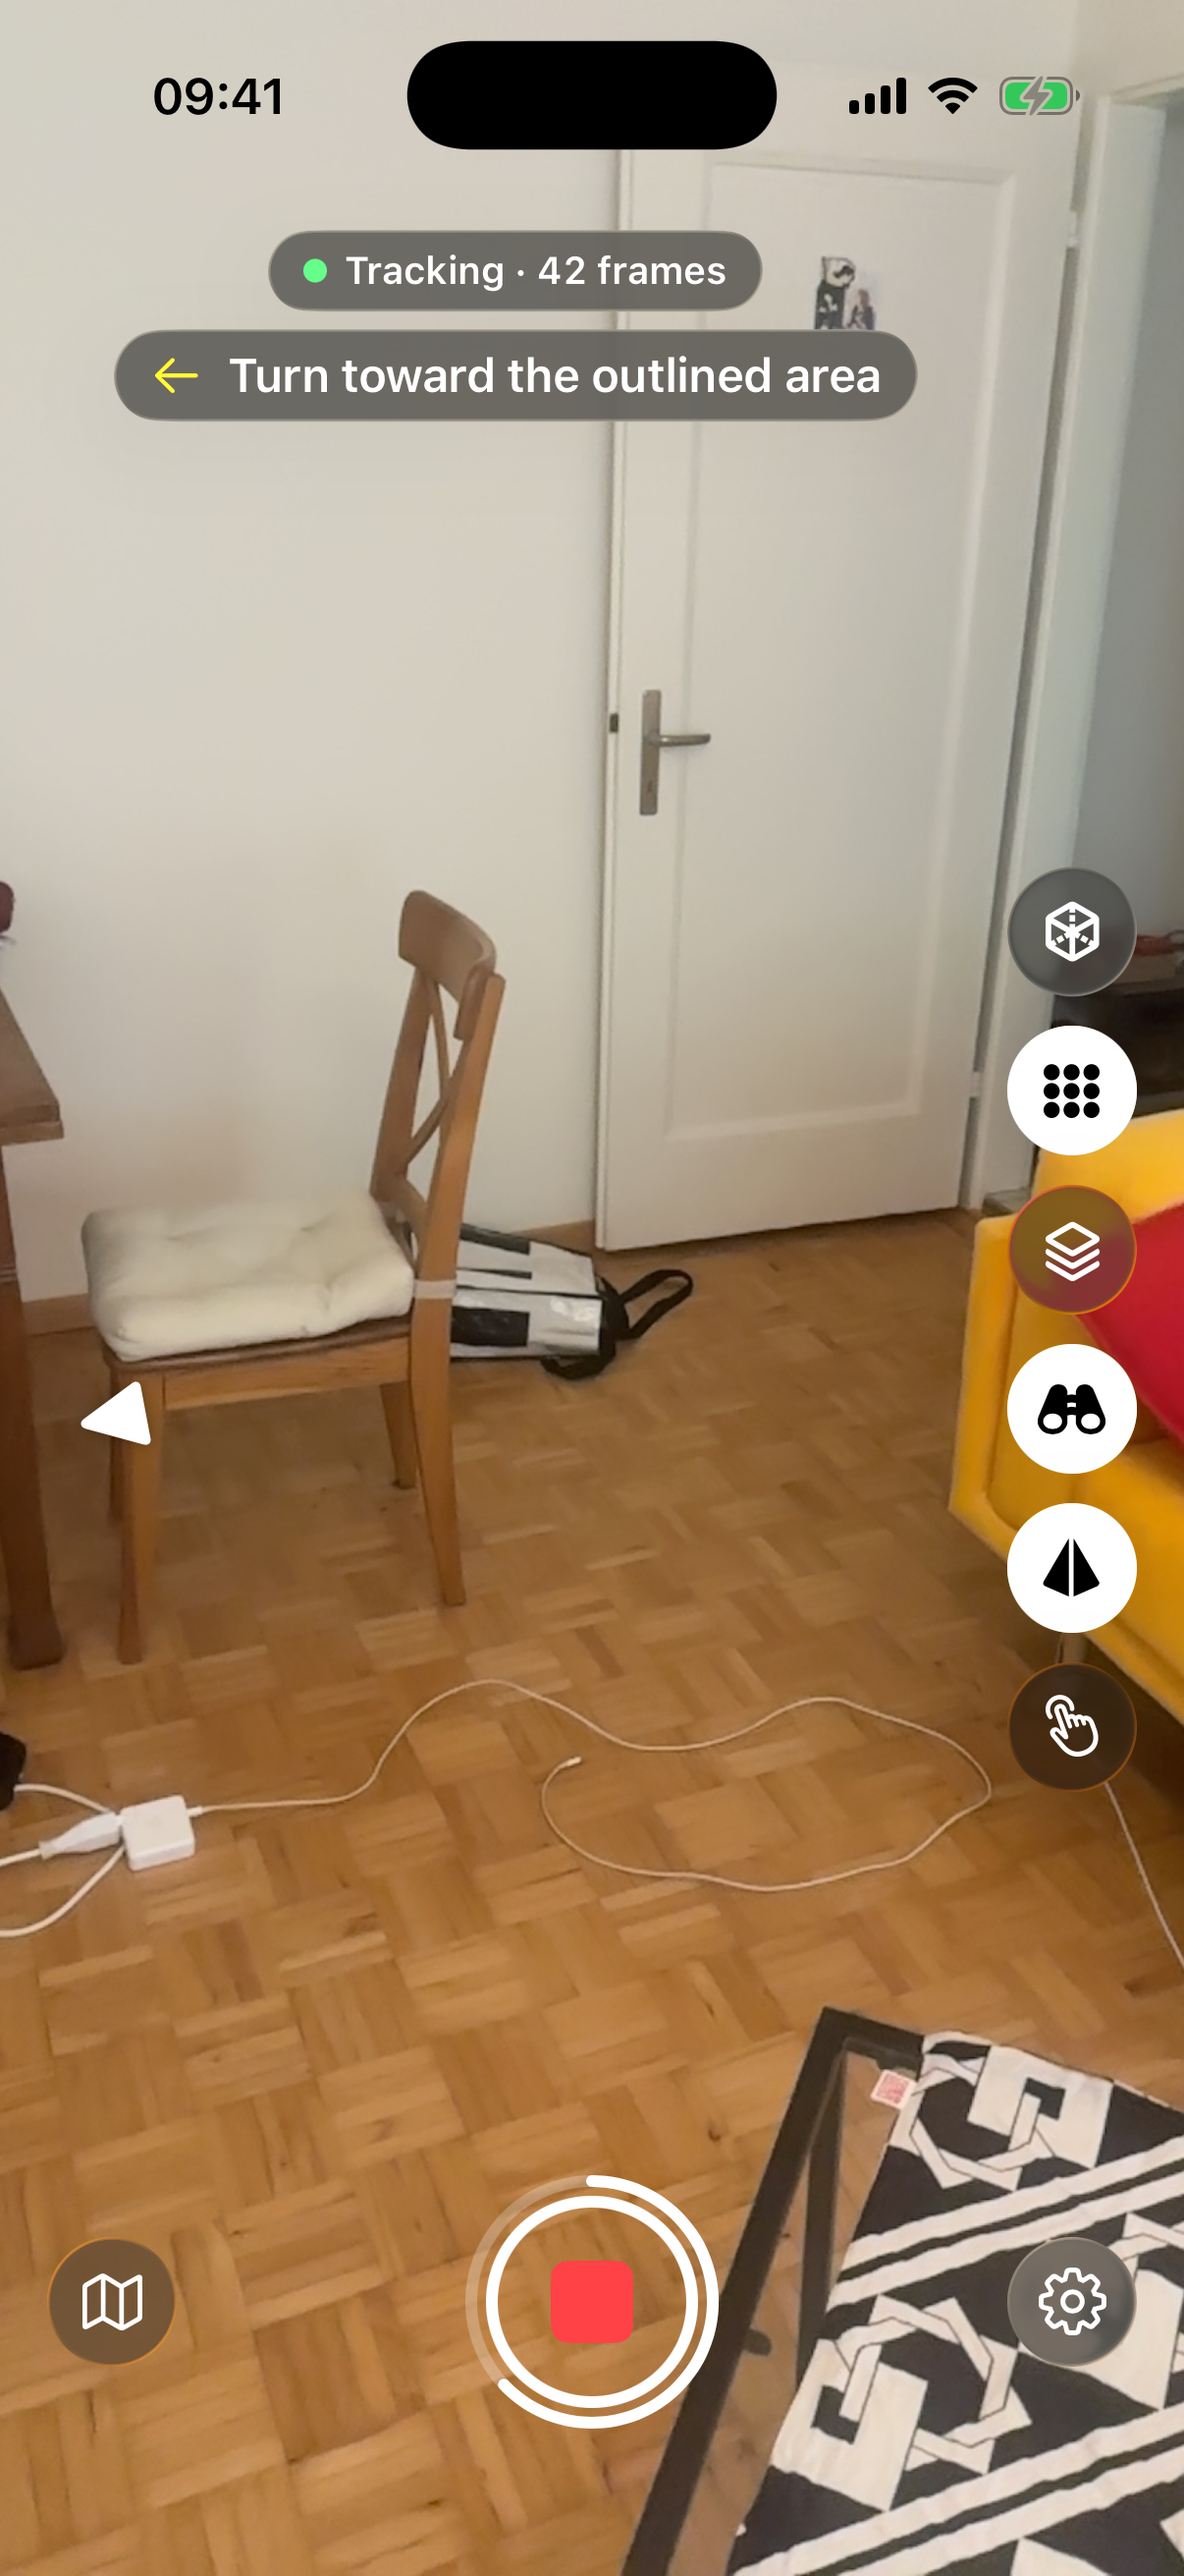
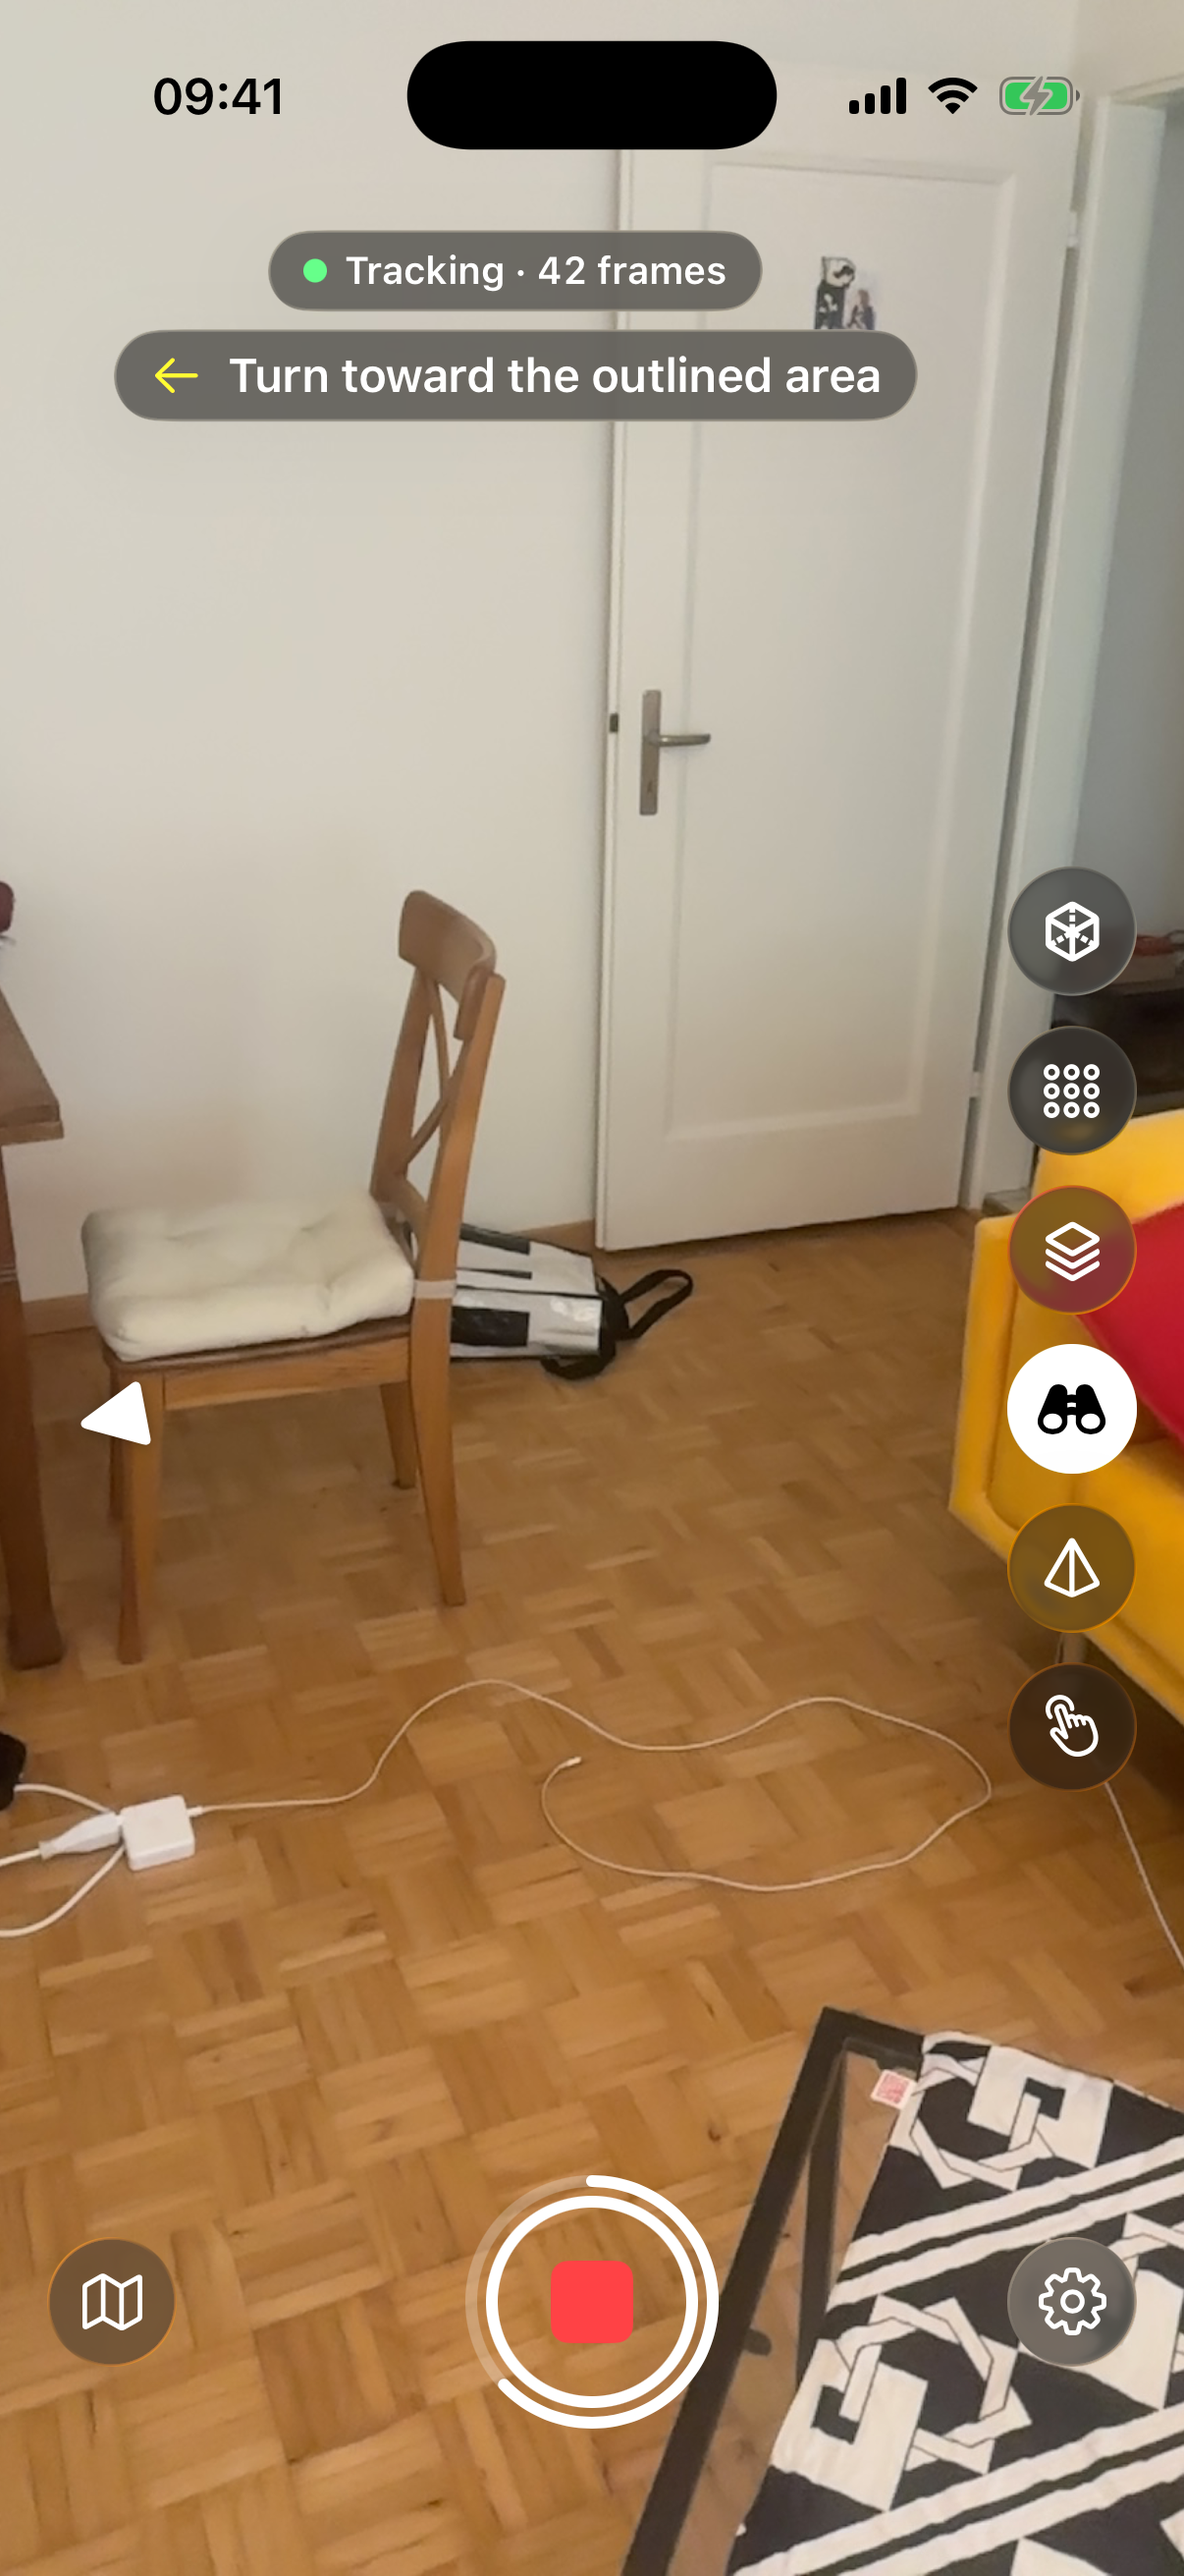
Guidance: review fixes; overlay shots with rail toggles that match the drawn layers

Changed region(s): [[0.8284, 0.5561, 0.9818, 0.6487], [0.8284, 0.3707, 0.9818, 0.4634]]

diff --git a/docs/guidance.md b/docs/guidance.md
@@ -17,7 +17,7 @@ The phone keeps its own map of the surfaces it has seen and how well your photos
    { data-anchor="target-box" data-side="r" }
 4. [**Weak dot**](#quality-dots): a spot that still needs work.
    { data-anchor="dot-weak" data-side="l" }
-5. [**Floor ring**](#next-view-target): on the floor under the yellow camera.
+5. [**Floor ring**](#next-view-target): under the yellow camera, where you stand.
    { data-anchor="target-ring" data-side="l" }
 6. [**Good dot**](#quality-dots): a spot your photos already cover well.
    { data-anchor="dot-good" data-side="l" }
@@ -52,7 +52,7 @@ The phone keeps its own map of the surfaces it has seen and how well your photos
 
 ## Next-view target
 
-The app picks one weak area at a time. Go to the yellow camera and face the outlined area; close to the camera, a ring appears at the area itself. Once you are in position, a keyframe is taken and the next target follows.
+The app picks one weak area at a time. Go to the yellow camera and face the outlined area; close to the camera, a ring appears at the area itself. Once you are in position, a keyframe is taken (or you tap the shutter) and the next target follows.
 
 <figure class="callouts" markdown>
 ![Camera view with a white arrowhead at the left edge pointing to a yellow camera off screen](img/guidance-arrow.png)
@@ -89,16 +89,16 @@ When "Room covered" shows, you can stop, or carry on if you want a denser captur
 
 ## Guidance sounds and taps
 
-A click tells you that you reached the yellow camera, and a tone that its area is covered; you feel a tap each time as well. "Proximity ticks" are soft taps that come faster as you get nearer to the yellow camera, like a parking sensor. Both can be turned off in Settings, under Guidance.
+A click tells you that you reached the yellow camera, and a tone that its area is covered; you feel a tap each time as well. "Proximity ticks" are soft taps that come faster as you get nearer to the yellow camera, like a parking sensor. The "Guidance sounds" and "Proximity ticks" switches in Settings, under Guidance, turn them off.
 
 ??? note "Details"
-    - The "Guidance sounds" switch turns off the click and the tone. The taps on arrival and completion do not depend on it.
+    - "Guidance sounds" covers the click and the tone. The taps on arrival and completion do not depend on it.
     - The phone's silent switch mutes the sounds as well, and music or podcasts keep playing underneath.
-    - Proximity ticks stop once you are in position. They have their own switch, "Proximity ticks".
+    - Proximity ticks stop once you are in position.
 
 ## Quality dots
 
-The dots lie on the surfaces the phone knows and show how well your photos cover each spot. With the default colours, "Blue-Orange", light blue is well covered, the colour darkens as coverage gets worse, and orange needs work. Walk towards the weak dots and look at them from a new side; moving sideways helps more than turning on the spot, as [Capturing a scene](capturing.md#angles) explains.
+The dots lie on the surfaces the phone knows. With the default colours, "Blue-Orange", light blue is well covered, the colour darkens as coverage gets worse, and orange needs work. Walk towards the weak dots and look at them from a new side; moving sideways helps more than turning on the spot, as [Capturing a scene](capturing.md#angles) explains.
 
 ??? note "Details"
     - A spot gets full marks when the phone has seen it in about 8 photos, taken from a spread of directions, with at least one close enough to show it sharply. Fewer photos, or photos from one side only, leave the dot towards orange.
@@ -108,12 +108,12 @@ The dots lie on the surfaces the phone knows and show how well your photos cover
 
 ## Grey hatching
 
-Grey diagonal stripes over a faint grey fill mark surfaces the LiDAR sensor has found but the reconstruction does not cover yet. Point the camera at them; the stripes disappear as the reconstruction catches up.
+The grey diagonal stripes lie over a faint grey fill, on surfaces the LiDAR sensor has found. Point the camera at them; they disappear as the reconstruction catches up.
 
 ??? note "Details"
-    - "Does not cover" means the reconstruction has nothing within about 10 cm of the surface.
+    - Hatched means the reconstruction has nothing within about 10 cm of the surface.
     - Hatching needs LiDAR and a Live splat setting other than "Off".
-    - It stays off until the first reconstruction exists, so you do not see it in the first moments of a capture.
+    - It stays off until the first reconstruction exists.
 
 ## Keyframe frustums
 
@@ -135,7 +135,7 @@ The colour of each pyramid tells you how well that keyframe is tied to the other
 
 ## The side rail
 
-The buttons on the right edge switch the guidance layers on and off, as the [Controls](#controls) figure shows. A white disc behind a button means on; a plain white symbol means off.
+The buttons on the right edge are named in the [Controls](#controls) figure. A white disc behind a button means on; a plain white symbol means off.
 
 ??? note "Details"
     - The Splat view button appears once the phone has built part of the 3D model, with Live splat on "This iPhone".
@@ -143,7 +143,7 @@ The buttons on the right edge switch the guidance layers on and off, as the [Con
 
 ## Splat view
 
-In the splat view, gaps and thin areas are places the model has not learned yet. The other layers are hidden, and the model sits on black. Switch it on for a quick look, then off again to carry on with the guidance.
+In the splat view the other layers are hidden. Where the model has nothing yet, the screen stays black; gaps and thin areas are places it has not learned. Switch it on for a quick look, then off again to carry on with the guidance.
 
 <figure class="callouts" markdown>
 ![Splat view of a partly built room, with the Splat view button on](img/guidance-splat-view.png)
@@ -154,14 +154,14 @@ In the splat view, gaps and thin areas are places the model has not learned yet.
    { data-anchor="rail-splat" data-side="r" }
 3. [**Manual capture**](capturing.md#keyframes-by-hand): the only other button left.
    { data-anchor="rail-manual" data-side="r" }
-4. [**Minimap**](#minimap): stays.
+4. [**Minimap**](#minimap): stays in the splat view.
    { data-anchor="minimap" data-side="l" }
 
 </figure>
 
 ## Progress ring
 
-The filled part of the white ring around Stop is the share of the known surface that is nearly fully covered, so it grows as you fill gaps. Use it to judge how far along you are. "Room covered" in the guidance line is the better sign that you are done.
+The filled part of the white ring around Stop is the share of the known surface that is nearly fully covered, so it grows as you fill gaps. Use it to judge how far along you are.
 
 ??? note "Details"
     - The ring appears a little after you start, once the phone has its first coverage figure.
@@ -171,7 +171,7 @@ The filled part of the white ring around Stop is the share of the known surface 
 
 ## Minimap
 
-The round map looks down on the area around you: your view direction points up, and the white triangle in the middle is you. Its squares are coloured like the dots, so it shows weak spots even behind you, and a yellow dot marks the next-view target. Use it to decide where to walk next, then the target and the dots for the details. Tap the map to hide it; a round map button takes its place and brings it back.
+The round map looks down on the area around you: your view direction points up, and the white triangle in the middle is you. Its squares are coloured like the dots, so it shows weak spots even behind you, and a yellow dot marks the next-view target. Use it to pick where to walk; the target and dots show the details. Tap the map to hide it; a round map button takes its place and brings it back.
 
 ??? note "Details"
     - The map covers 5 m around you. Each small square is a patch of known surface, with the legend "good" and "needs work" under the map.

diff --git a/docs/getting-started.md b/docs/getting-started.md
@@ -57,7 +57,7 @@ The phone builds the 3D model itself, so you need no other device.
 
 1. [**Status pill**](capturing.md#keyframes): tracking state and the number of keyframes.
    { data-anchor="status-pill" data-side="l" }
-2. [**Guidance line**](guidance.md#next-view-target): what to do next.
+2. [**Guidance line**](guidance.md#the-guidance-line): what to do next.
    { data-anchor="guidance-line" data-side="r" }
 3. [**Side rail**](guidance.md#the-side-rail): guidance layers on and off.
    { data-anchor="rail" data-side="r" }
